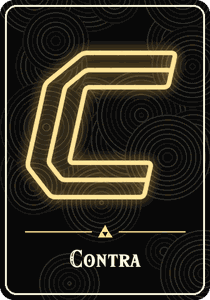
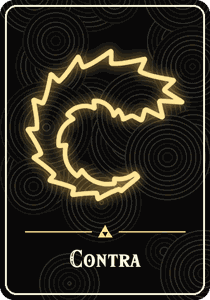
feat(art): draw contra as the flame c

Changed region(s): [[0.0857, 0.12, 0.9143, 0.69]]

diff --git a/tools/gen_theme_art.py b/tools/gen_theme_art.py
@@ -1183,15 +1183,29 @@ def star_fox(p):  # arwing, seen from the front
     p.o(0, 17, 4)
 
 
-def contra(p):  # the title's C: a heavy block letter, chamfered and slanted, with a bevel line
-    def slant(pts):
-        return [(x - 0.22 * y, y) for x, y in pts]
+def contra(p):  # the flame c: a swoosh of fire from a flaring head at upper right round to a thin tail at lower right
+    a0, a1, r = -36, -312, 33       # angles (0 right, 90 down): from the head over the top, down the left, to the tail
 
-    letter = slant([(-16, -42), (38, -42), (38, -22), (-10, -22), (-10, 22), (38, 22), (38, 42), (-16, 42),
-                    (-34, 24), (-34, -24)])
-    p.pg(letter, 2.5)
-    with p.inside(rounded(letter, 2.5)):
-        p.l(slant([(44, -32), (-12, -32), (-22, -22), (-22, 22), (-12, 32), (44, 32)]), 2)
+    def at(a, rad):
+        return (rad * math.cos(math.radians(a)), rad * math.sin(math.radians(a)))
+
+    def lick(i, period):
+        """A flame tongue's profile: rising slowly from its root to a sharp tip, then dropping back."""
+        f = (i % period) / period
+        return f * f
+
+    outer, inner = [], []
+    n = 276
+    for i in range(n + 1):
+        t = i / n
+        a = a0 + (a1 - a0) * t
+        w = (3 + 27 * (1 - t) ** 1.3) / 2
+        fade = min(1, (n - i) / 40)
+        outer.append(at(a, r + w + (3 + 7 * (1 - t)) * fade * lick(n - i, 23)))
+        inner.append(at(a, r - w - 5 * fade * lick(n - i + 20, 46)))
+    head = [at(a0 + 3, r - 10), at(a0 + 16, r - 6), at(a0 + 5, r - 1), at(a0 + 20, r + 7), at(a0 + 5, r + 9),
+            at(a0 + 14, r + 22)]
+    p.pg(outer + inner[::-1] + head, 1.2)
 
 
 def ninja_gaiden(p):  # katana and a shuriken
@@ -1279,7 +1293,7 @@ ART = {
     "ys": (ys, (38, 112, 124), -6, 0.9, (-14, 0)),
     "horses": (horses, (150, 96, 60), -5, 0.95, (-34, 0)),
     "star-fox": (star_fox, (46, 92, 168), -6, 1.0, (-10, 0)),
-    "contra": (contra, (176, 52, 40), -6, 1.0, (-14, 0)),
+    "contra": (contra, (44, 52, 104), 0, 0.9, (-28, 0)),
     "ninja-gaiden": (ninja_gaiden, (92, 40, 110), 0, 1.0, (-6, 0)),
     "gradius": (gradius, (34, 74, 120), -6, 0.9, (-22, 0)),
     "metal-slug": (metal_slug, (120, 110, 56), -4, 1.0, (-14, 0)),
